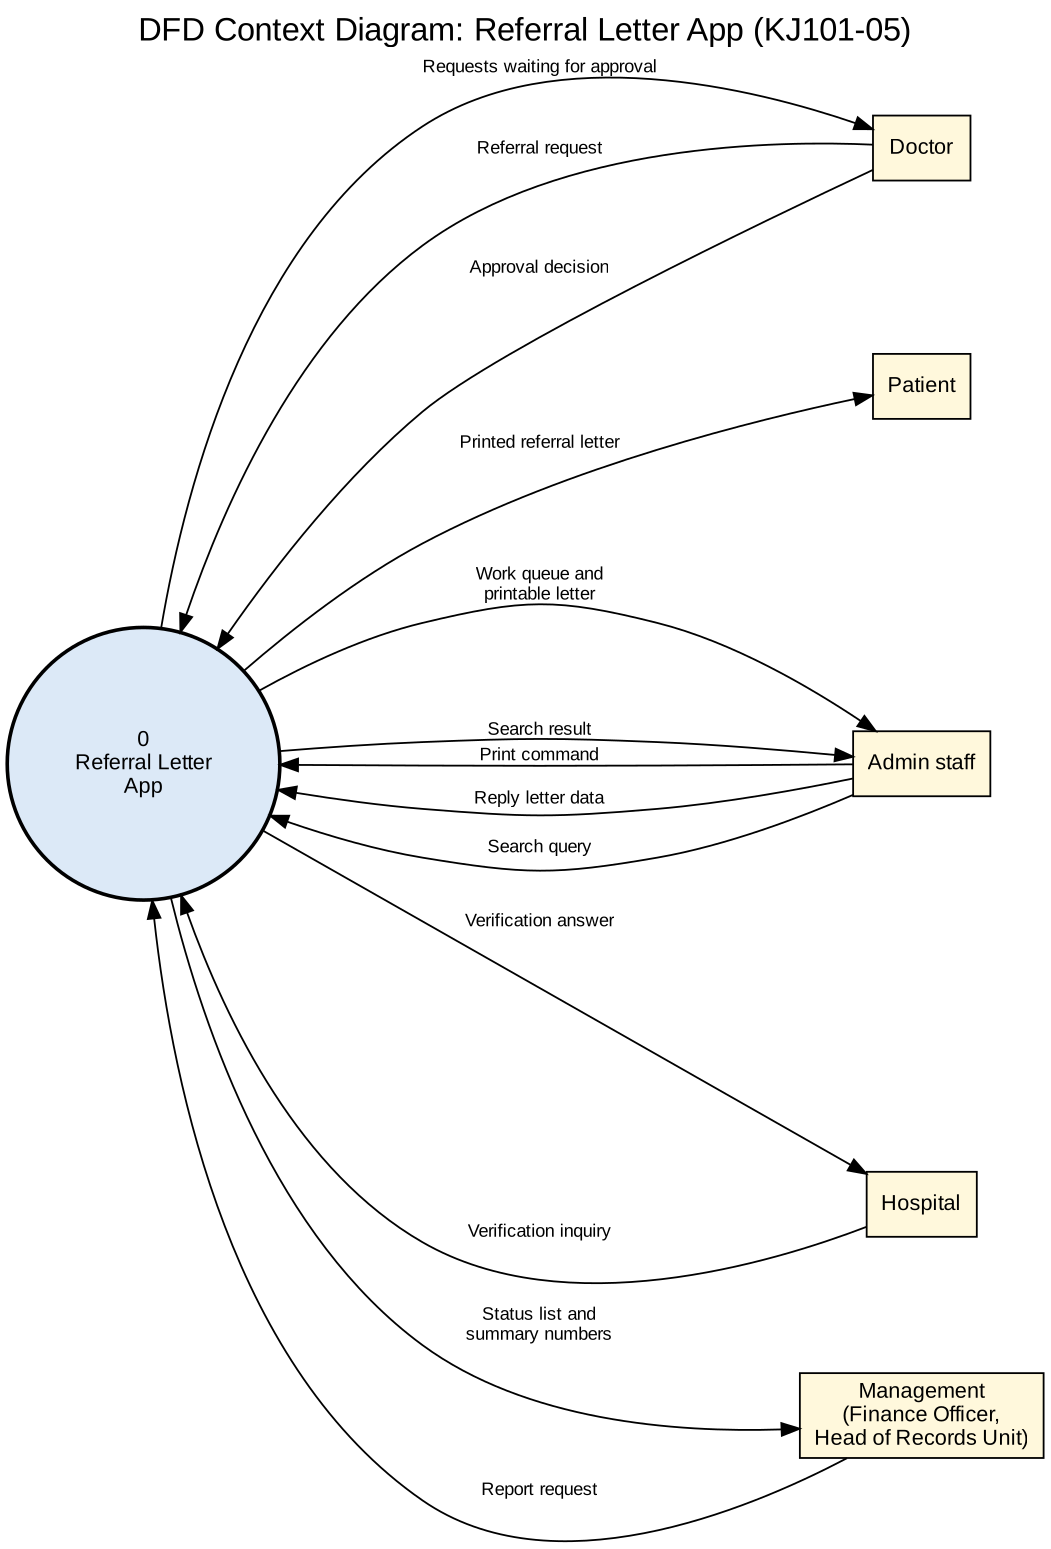
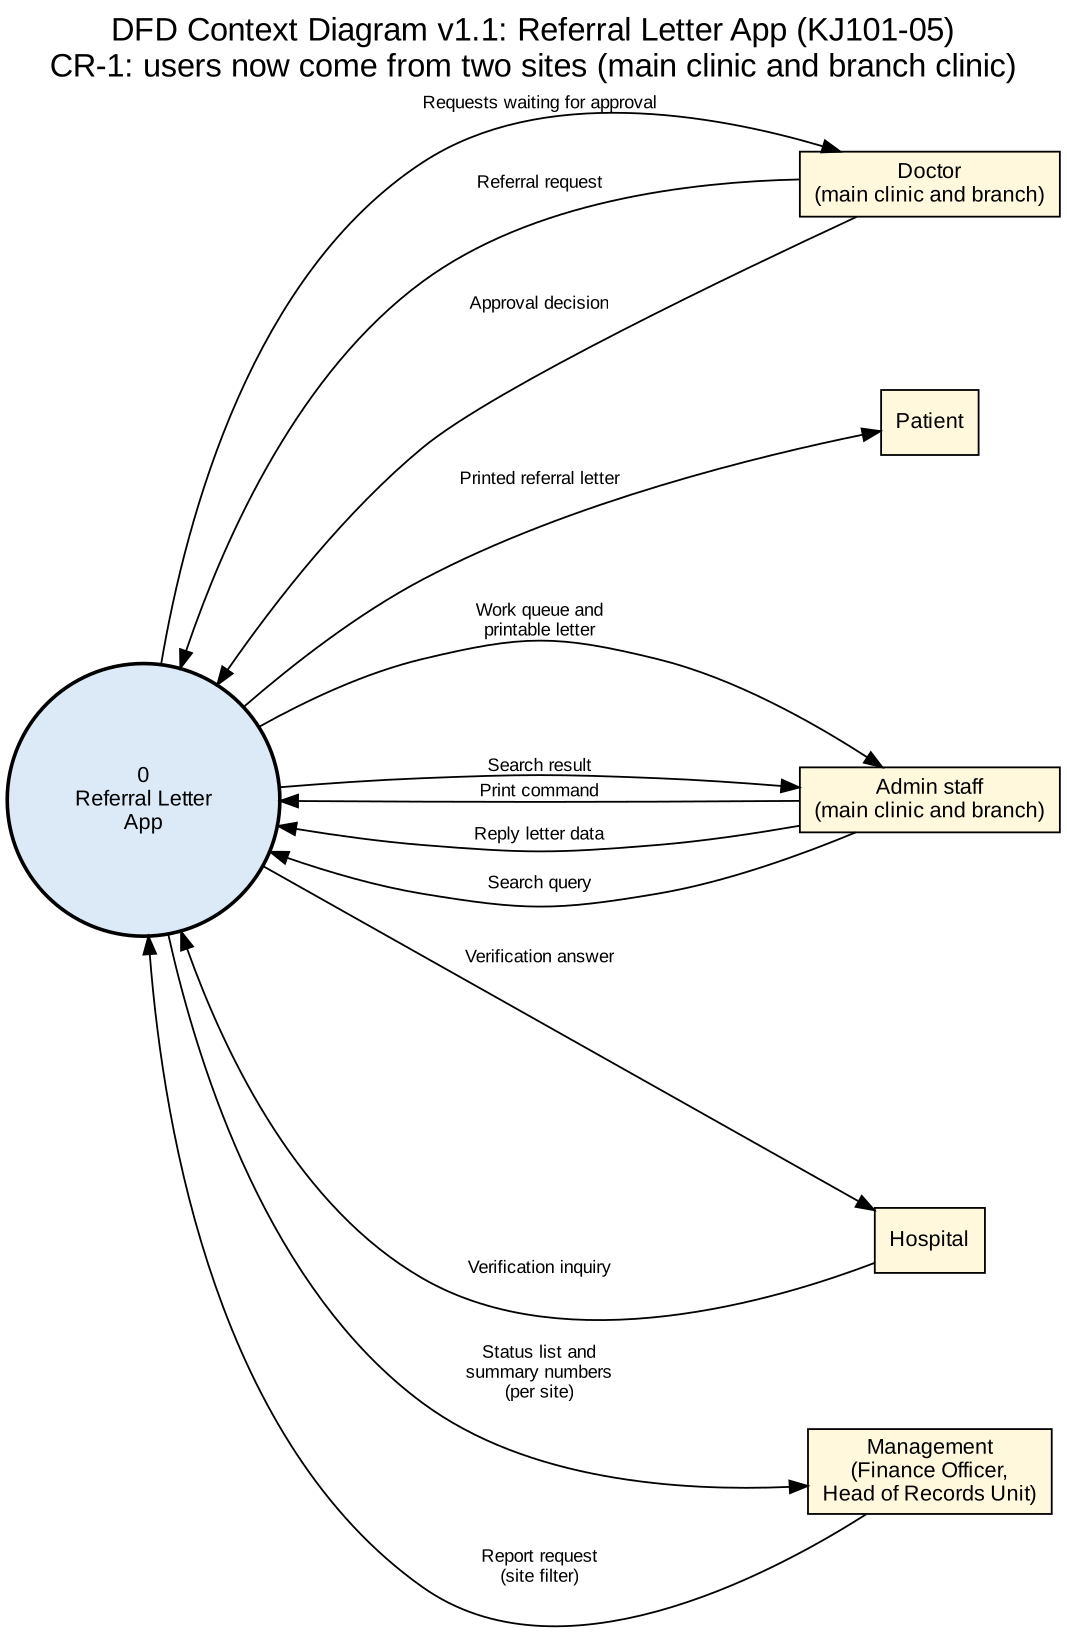
Add files via upload
CR-1: add site to ERD and DFD labels

diff --git a/docs/B_models/README.md b/docs/B_models/README.md
@@ -1,47 +1,51 @@
-# B. Models
+# B. Models (v1.1)
 
-All four models are built only from the case files. Anything extra is marked as an assumption.
+All four models are built only from the case files and the change request CR-1. Anything extra is marked as an assumption. Changes for CR-1 are marked **[CR-1]**.
 
 ## 1. Flowmap: how the work runs today
 ![Flowmap today](flowmap_today.png)
 
-Source: the interview (Mas Rizky's five stages, which I split into steps 1 to 7), the paper form RM-51 and the staff chat. The extra steps 8 and 9 come from the interview (hospital calls to verify) and the staff chat (Pak Udin's reply letter). The red notes mark the three problems the client named, the missing place for reply letters, and the conflict about print order (Q-01).
+**[CR-1] Not changed.** Source: the interview (Mas Rizky's five stages, which I split into steps 1 to 7), the paper form RM-51 and the staff chat. The extra steps 8 and 9 come from the interview (hospital calls to verify) and the staff chat (Pak Udin's reply letter). The red notes mark the three problems the client named, the missing place for reply letters, and the conflict about print order (Q-01). The picture shows how the main clinic works today. There is no information about how the branch works, so it is not drawn (Q-08).
 
-## 2. DFD context diagram
+## 2. DFD context diagram **[CR-1] changed (labels)**
 ![DFD context](dfd_context.png)
 
-## 3. DFD level 1
+Doctor and admin staff now come from two sites. The processes and the data flows are the same. The report flows now carry a site filter and numbers per site.
+
+## 3. DFD level 1 **[CR-1] changed (labels)**
 ![DFD level 1](dfd_level1.png)
 
-Data stores: D1 Patient, D2 Doctor, D3 Hospital, D4 Referral, D5 Reply letter, D6 Status event.
+Data stores: D1 Patient, D2 Doctor (with site), D3 Hospital, D4 Referral (with site), D5 Reply letter, D6 Status event. No new process and no new store, because a site is a property of a referral and of a doctor, not a thing the app needs its own store for.
 
-## 4. ERD
+## 4. ERD **[CR-1] changed (new attribute site)**
 ![ERD](erd.png)
 
 | Entity | Key | Notes |
 |---|---|---|
 | PATIENT | patient_id | RM number and name (RM 7712 Wati, 8030 Udin, 6519 Siti A.) |
-| DOCTOR | doctor_id | referring doctors (dr. Rina, dr. Bayu) |
-| HOSPITAL | hospital_id | destinations (RSUD Kota, RS Karya Bhakti) |
-| REFERRAL | referral_id | one row per referral: specialty, diagnosis, status, letter number, issue date, valid until |
+| DOCTOR | doctor_id | referring doctors (dr. Rina, dr. Bayu); **[CR-1]** site |
+| HOSPITAL | hospital_id | destinations (RSUD Kota, RS Karya Bhakti); one list for both sites |
+| REFERRAL | referral_id | one row per referral: specialty, diagnosis, status, letter number, issue date, valid until; **[CR-1]** site |
 | REPLY_LETTER | reply_id | the extra data item from the staff chat |
 | STATUS_EVENT | event_id | one row per status change; gives the history and the waiting times |
 
-Relationships: a patient, a doctor and a hospital each have many referrals; a referral has zero or more reply letters and many status events. *(my assumption: one letter per referral, so letter number, issue date and valid until sit in REFERRAL.)*
+Relationships are as in v1.0: a patient, a doctor and a hospital each have many referrals; a referral has zero or more reply letters and many status events. *(my assumption: one letter per referral, so letter number, issue date and valid until sit in REFERRAL.)*
+
+**[CR-1] Why `site` is an attribute and not a new entity.** The site has only two values (Main clinic, Branch clinic) and no data of its own that the case names. A seventh entity CLINIC would also pass the limit of six entities for the ERD. If the client later names more details (address, head of site), it can become an entity.
 
 ## How the three fit together
-The flowmap shows today's paper steps and where they hurt. Each step becomes a process in the DFD: writing the form becomes 1.0, the doctor's signature becomes 2.0, typing and printing becomes 3.0, the log book and the folder disappear into the data stores, hospital calls become 5.0 and the reply letter becomes 4.0. The new process 6.0 serves the client's wish to see status and numbers.
+The flowmap shows today's paper steps and where they hurt. Each step becomes a process in the DFD: writing the form becomes 1.0, the doctor's signature becomes 2.0, typing and printing becomes 3.0, the log book and the folder disappear into the data stores, hospital calls become 5.0 and the reply letter becomes 4.0. The new process 6.0 serves the client's wish to see status and numbers, and with CR-1 it shows them per site.
 
-Each DFD data store is one ERD entity, one to one: D1 PATIENT, D2 DOCTOR, D3 HOSPITAL, D4 REFERRAL, D5 REPLY_LETTER, D6 STATUS_EVENT. Every attribute in the ERD is in the PRD data list, and the other way round.
+Each DFD data store is one ERD entity, one to one: D1 PATIENT, D2 DOCTOR, D3 HOSPITAL, D4 REFERRAL, D5 REPLY_LETTER, D6 STATUS_EVENT. Every attribute in the ERD is in the PRD data list, and the other way round (the new `site` is in both).
 
 **Balance check (context vs level 1).** Every flow between an outside entity and the system in the context diagram appears at level 1 with the same name, and level 1 adds no new outside flow:
 
 | Entity | Into the system | Out of the system | Level 1 process |
 |---|---|---|---|
-| Doctor | Referral request; Approval decision | Requests waiting for approval | 1.0, 2.0 |
-| Admin staff | Print command; Reply letter data; Search query | Work queue and printable letter; Search result | 3.0, 4.0, 5.0 |
+| Doctor (both sites) | Referral request; Approval decision | Requests waiting for approval | 1.0, 2.0 |
+| Admin staff (both sites) | Print command; Reply letter data; Search query | Work queue and printable letter; Search result | 3.0, 4.0, 5.0 |
 | Patient | none | Printed referral letter | 3.0 |
 | Hospital | Verification inquiry | Verification answer | 5.0 |
-| Management | Report request | Status list and summary numbers | 6.0 |
+| Management | Report request (site filter) | Status list and summary numbers (per site) | 6.0 |
 
 *(my assumption on 5.0: in real life admin takes the hospital's phone call and relays the answer. The DFD shows the information flow to the hospital.)*
